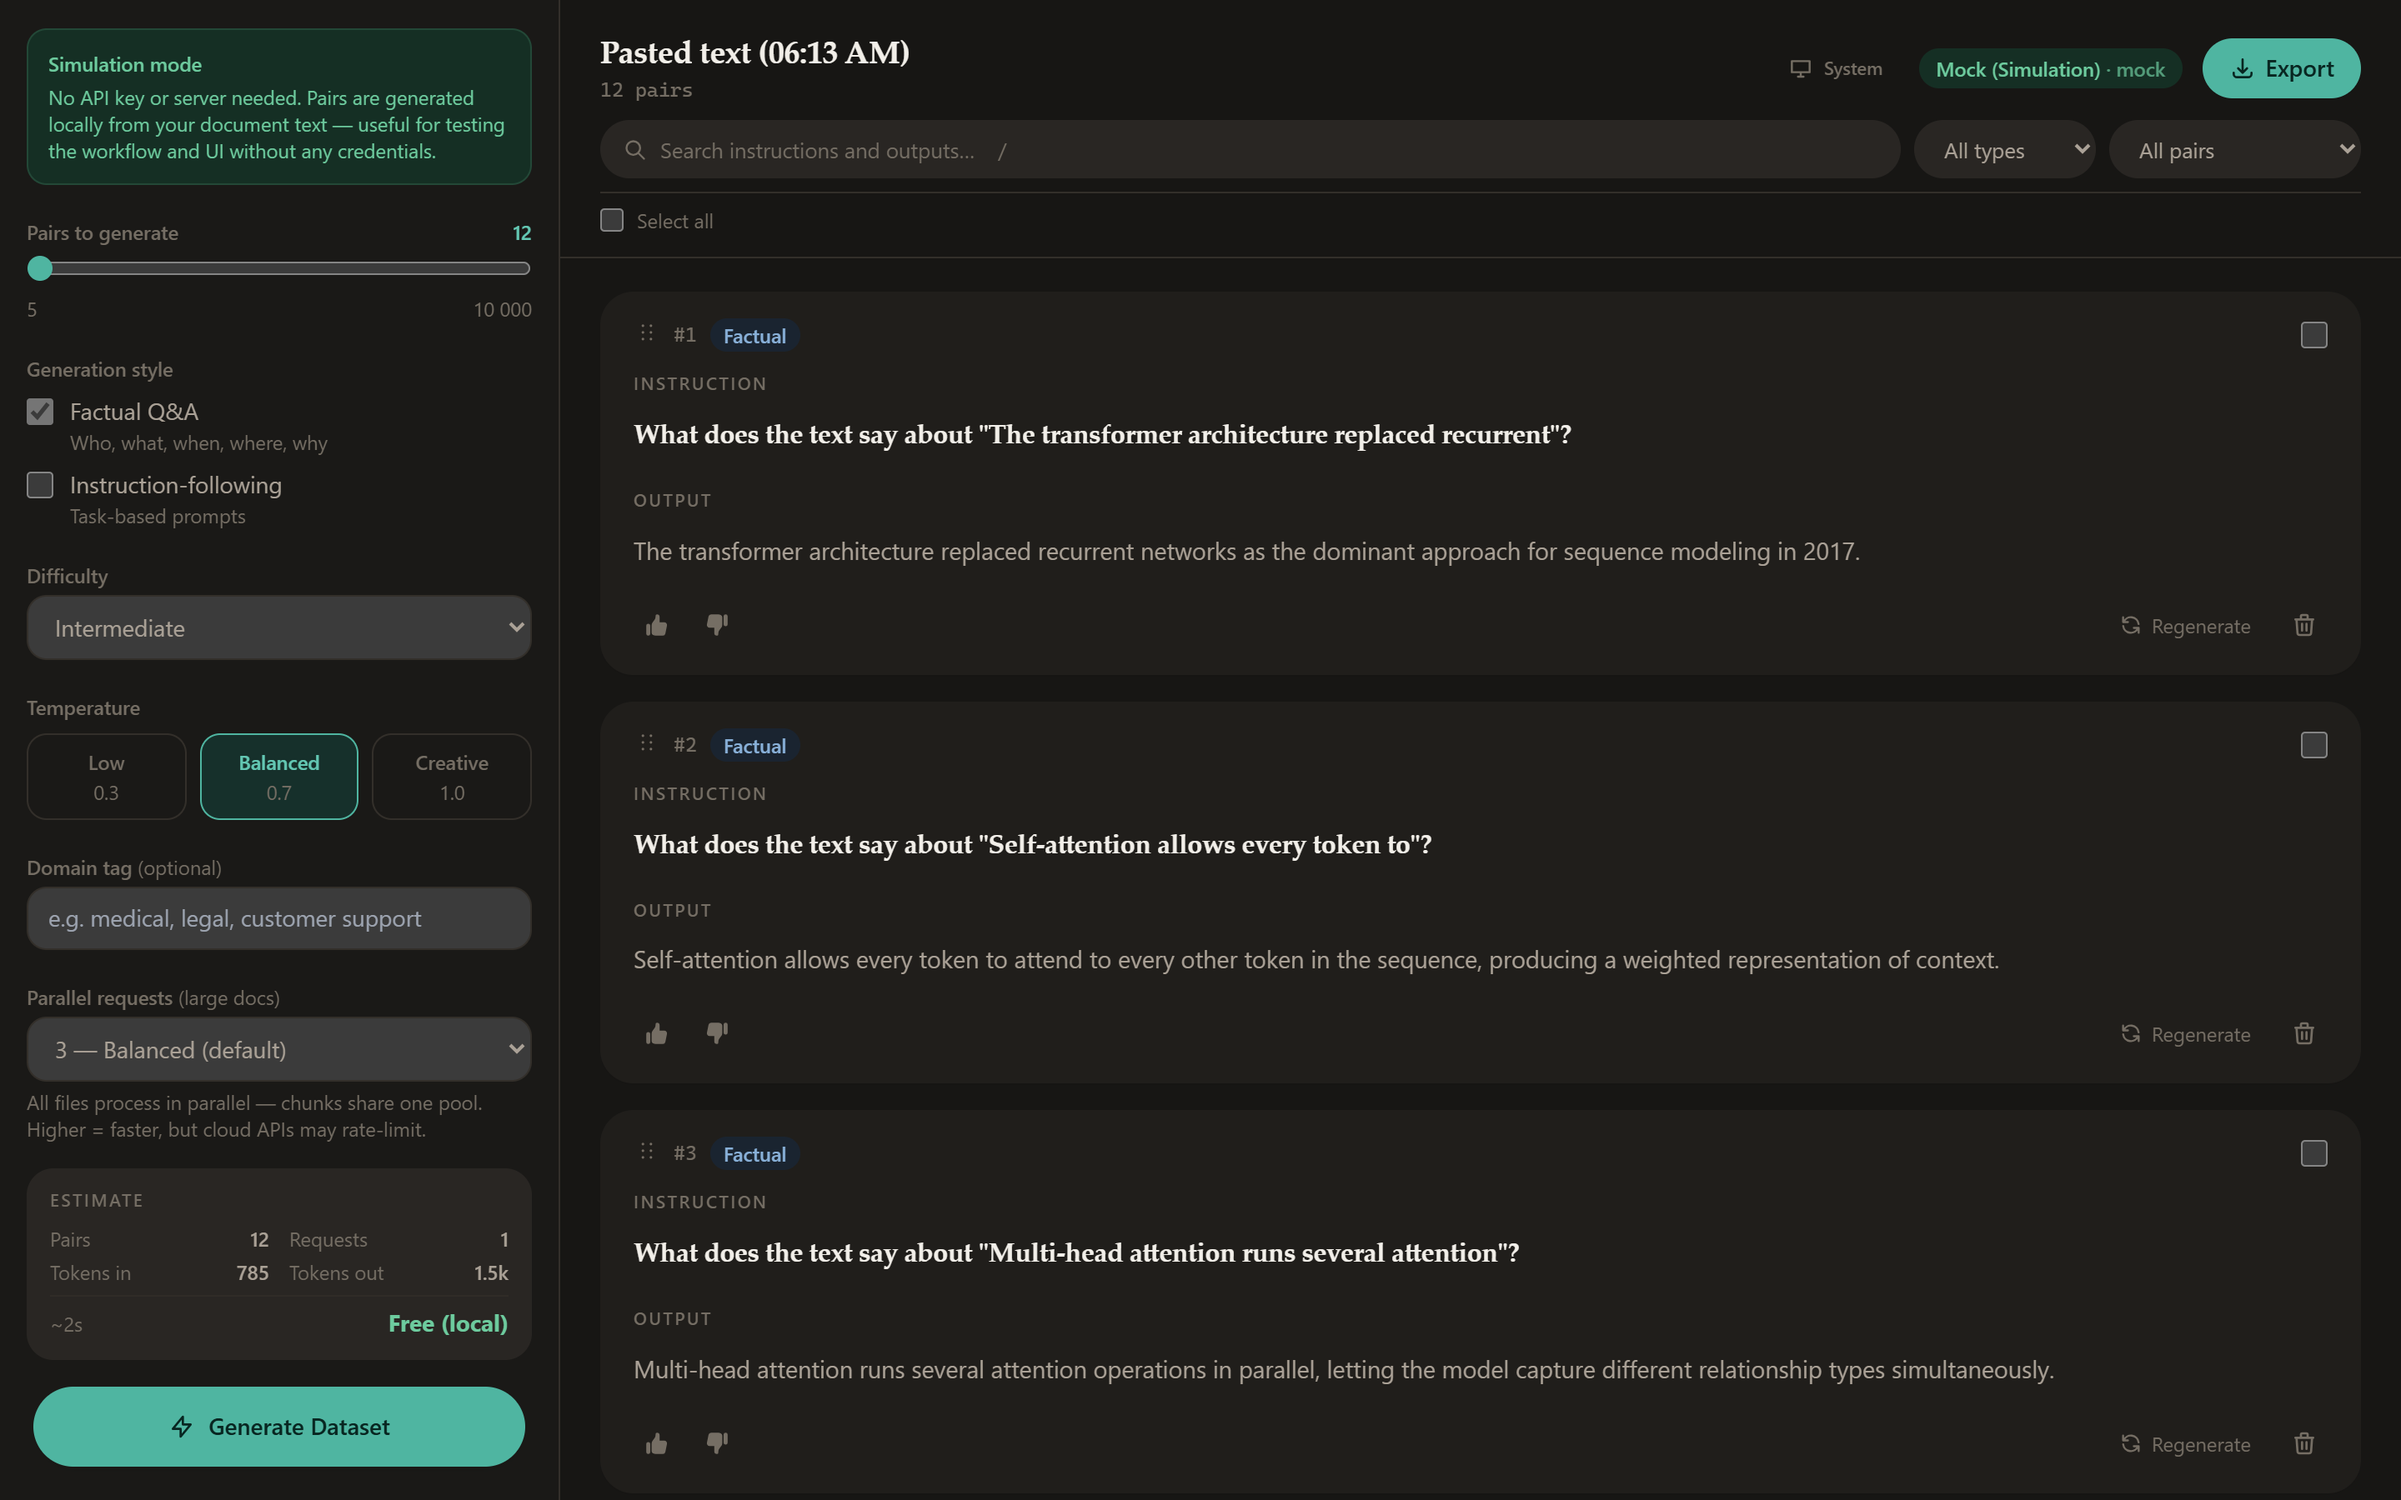
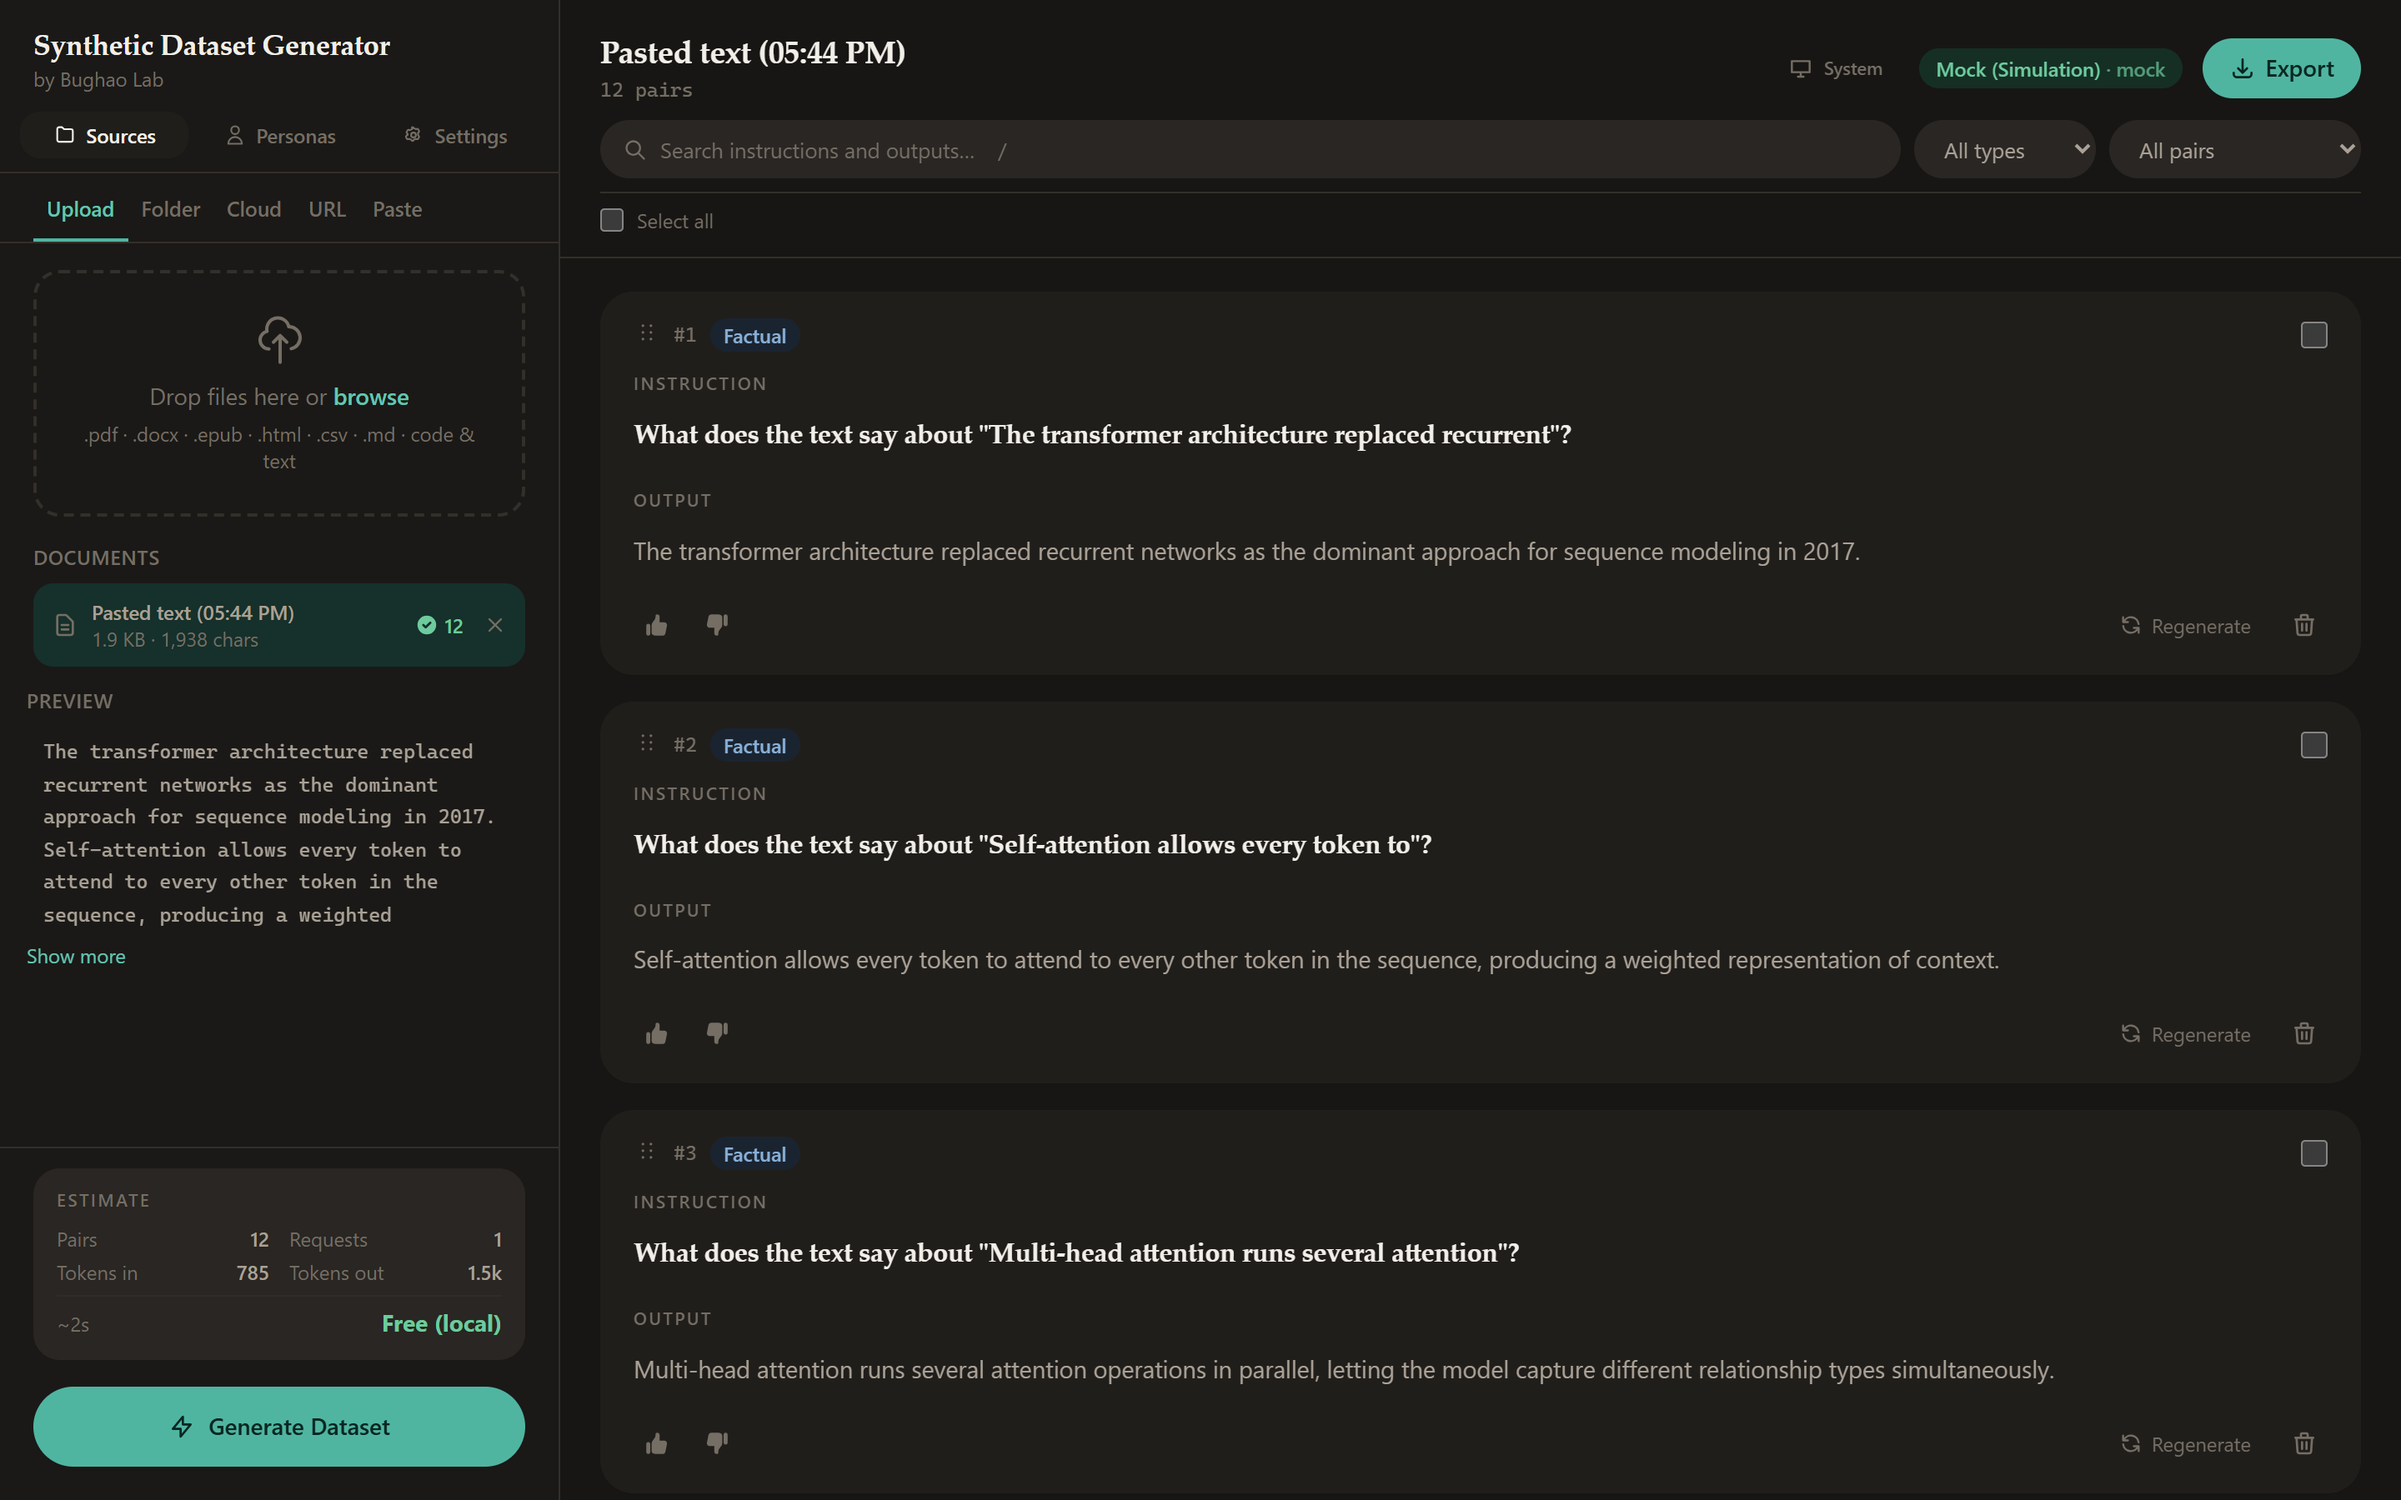
docs: reshoot every screenshot against the three-view sidebar
All fourteen images predated the sidebar restructure, so each one still
showed the single long scroll of sources, settings and personas. Reshot
them all, and taught the capture script the new navigation:

- clickByText matches case-insensitively on trimmed text, since the
  source tabs render uppercase via CSS but read lowercase in the DOM
- a goToView helper drives the Sources / Personas / Settings tabs, and
  the script switches views before each interaction rather than
  assuming everything is on one page

12-personas.png had also gone missing and was referenced nowhere. It is
back, showing the persona badges and the persona filter that the text
describes, and the README now links it.

diff --git a/README.md b/README.md
@@ -216,6 +216,8 @@ Selecting several splits the pair budget across them, and each gets its own
 request per chunk so the voices stay distinct instead of blurring into an
 average. Pairs are badged with their persona and can be filtered by it.
 
+![Pairs badged by persona](docs/screenshots/12-personas.png)
+
 > Two guardrails are built into the prompt. Answers are written *for* the
 > persona but never name them — without that, outputs start "As a developer,
 > you should…", which is an artefact of the generator rather than knowledge.
